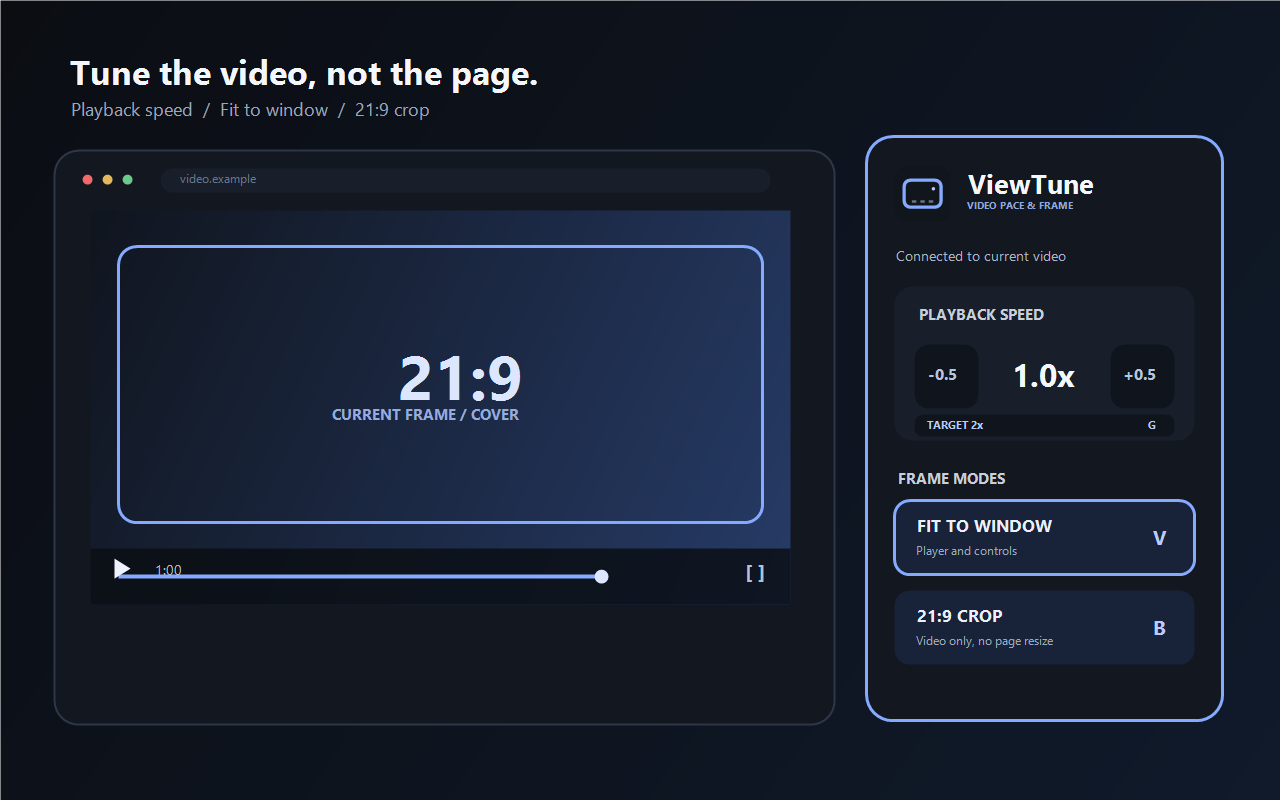
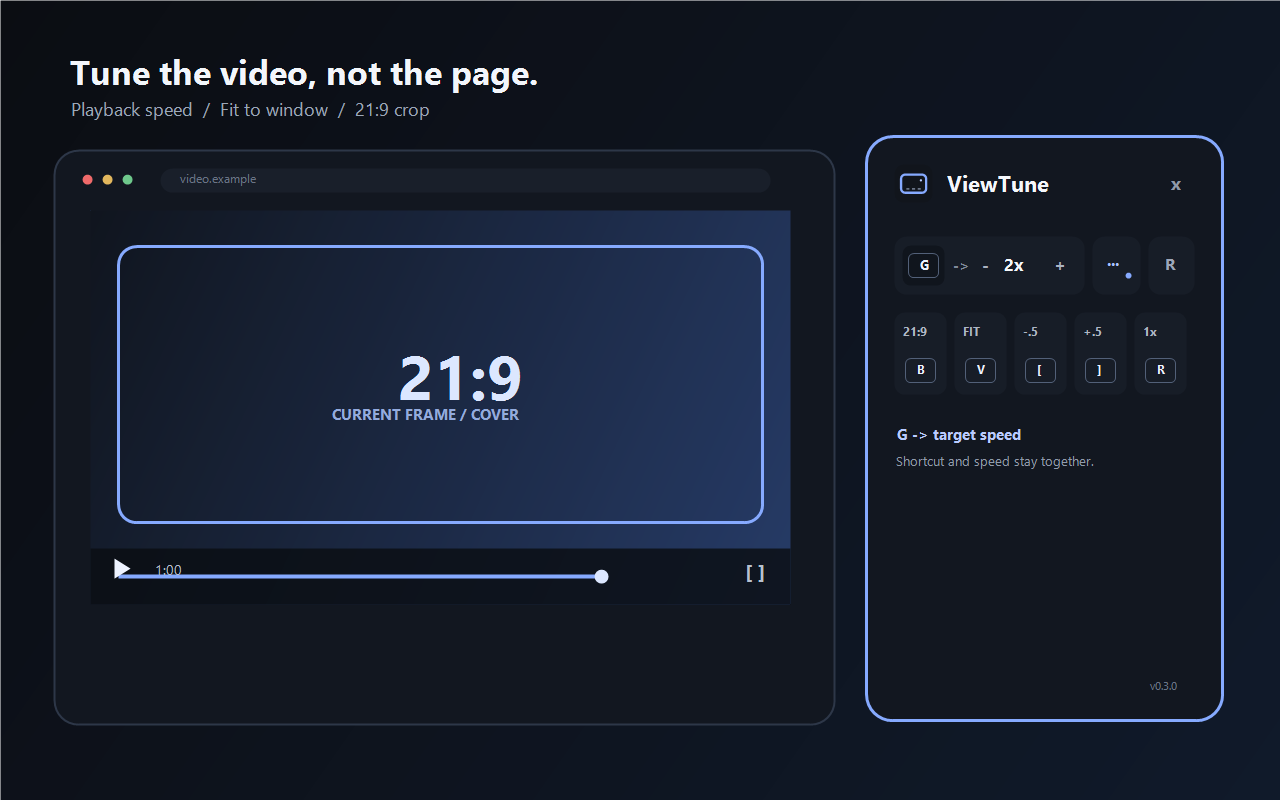
Handle invalidated extension contexts

diff --git a/src/content/main.js b/src/content/main.js
@@ -11,31 +11,42 @@
   const controller = capability.supported
     ? new globalThis.ViewTune.VideoController()
     : null;
+  let shortcuts = null;
+  let contextActive = true;
+  let runtimeMessageListener = null;
   markRuntimeBuild();
+
   const markFrameActive = () => {
-    chrome.runtime.sendMessage({ type: "viewtune/activate-frame" }).catch(() => {
-      // 서비스 워커가 다시 시작되는 짧은 순간에도 영상 제어는 독립적으로 동작한다.
-    });
+    if (!contextActive) {
+      return;
+    }
+    try {
+      const pending = chrome.runtime.sendMessage({ type: "viewtune/activate-frame" });
+      pending?.catch?.((error) => {
+        if (isExtensionContextInvalidated(error)) {
+          deactivateContext();
+        }
+      });
+    } catch {
+      deactivateContext();
+    }
+  };
+  const handlePointerDown = (event) => {
+    if (controller.videoFromElement(event.target)) {
+      markFrameActive();
+    }
+  };
+  const handlePlay = (event) => {
+    if (controller.isUsableVideo(event.target)) {
+      markFrameActive();
+    }
   };
 
   if (controller) {
-    const shortcuts = new globalThis.ViewTune.ShortcutController(controller, markFrameActive);
-    shortcuts.start();
-
-    document.addEventListener("pointerdown", (event) => {
-      if (controller.videoFromElement(event.target)) {
-        markFrameActive();
-      }
-    }, true);
-
-    document.addEventListener("play", (event) => {
-      if (controller.isUsableVideo(event.target)) {
-        markFrameActive();
-      }
-    }, true);
+    activateController();
   }
 
-  chrome.runtime.onMessage.addListener((message, _sender, sendResponse) => {
+  runtimeMessageListener = (message, _sender, sendResponse) => {
     if (message?.type === "viewtune/execute") {
       const result = controller
         ? controller.execute(message.action)
@@ -53,7 +64,46 @@
         : unsupportedPageResult(capability);
       sendResponse(withPageContext(result));
     }
-  });
+  };
+  try {
+    chrome.runtime.onMessage.addListener(runtimeMessageListener);
+  } catch {
+    deactivateContext();
+  }
+
+  function activateController() {
+    shortcuts = new globalThis.ViewTune.ShortcutController(controller, markFrameActive);
+    try {
+      shortcuts.start();
+      document.addEventListener("pointerdown", handlePointerDown, true);
+      document.addEventListener("play", handlePlay, true);
+    } catch {
+      deactivateContext();
+    }
+  }
+
+  function deactivateContext() {
+    if (!contextActive) {
+      return;
+    }
+    contextActive = false;
+    shortcuts?.stop?.();
+    if (controller) {
+      document.removeEventListener("pointerdown", handlePointerDown, true);
+      document.removeEventListener("play", handlePlay, true);
+    }
+    try {
+      if (runtimeMessageListener) {
+        chrome.runtime.onMessage.removeListener(runtimeMessageListener);
+      }
+    } catch {
+      // 무효화된 컨텍스트에서는 Chrome 이벤트 자체에 접근할 수 없다.
+    }
+  }
+
+  function isExtensionContextInvalidated(error) {
+    return /extension context invalidated/i.test(String(error?.message || error || ""));
+  }
 
   function withPageContext(result) {
     return {

diff --git a/tests/shortcut-utils.test.js b/tests/shortcut-utils.test.js
@@ -416,6 +416,56 @@ test("Shadow DOM 경로 안의 편집기에서도 단축키를 무시한다", ()
   }), true);
 });
 
+test("ShortcutController stop은 키와 storage 리스너를 함께 해제한다", () => {
+  const previousChrome = globalThis.chrome;
+  const documentListeners = new Map();
+  let storageListener = null;
+  let removedStorageListener = null;
+  globalThis.chrome = {
+    storage: {
+      sync: {
+        async get() { return {}; },
+        async set() {}
+      },
+      onChanged: {
+        addListener(listener) { storageListener = listener; },
+        removeListener(listener) { removedStorageListener = listener; }
+      }
+    }
+  };
+
+  try {
+    const document = {
+      addEventListener(type, listener) { documentListeners.set(type, listener); },
+      removeEventListener(type, listener) {
+        if (documentListeners.get(type) === listener) {
+          documentListeners.delete(type);
+        }
+      }
+    };
+    const controller = new ShortcutController({
+      document,
+      window: {},
+      setFeedbackEnabled() {},
+      setTargetPlaybackRate() {}
+    }, () => {});
+
+    controller.start();
+    assert.equal(documentListeners.get("keydown"), controller.handleKeydown);
+    assert.equal(storageListener, controller.handleStorageChange);
+
+    controller.stop();
+    assert.equal(documentListeners.has("keydown"), false);
+    assert.equal(removedStorageListener, controller.handleStorageChange);
+  } finally {
+    if (previousChrome === undefined) {
+      delete globalThis.chrome;
+    } else {
+      globalThis.chrome = previousChrome;
+    }
+  }
+});
+
 test("설정된 화면 단축키는 적용 실패 시에도 YouTube로 새지 않는다", () => {
   let frameActivityCount = 0;
   let executedAction = null;

diff --git a/src/content/shortcut-controller.js b/src/content/shortcut-controller.js
@@ -27,6 +27,15 @@
       this.loadSettings();
     }
 
+    stop() {
+      this.document.removeEventListener("keydown", this.handleKeydown, true);
+      try {
+        chrome.storage.onChanged.removeListener(this.handleStorageChange);
+      } catch {
+        // 확장 새로고침으로 컨텍스트가 무효화된 뒤에는 storage 이벤트 접근도 실패할 수 있다.
+      }
+    }
+
     get document() {
       return this.videoController.document;
     }

diff --git a/src/shared/constants.js b/src/shared/constants.js
@@ -63,7 +63,7 @@
 
   const STORAGE_KEY = "viewTuneSettings";
 
-  const BUILD_ID = "0.3.0-20260717-target-mapping-v3";
+  const BUILD_ID = "0.3.0-20260717-runtime-lifecycle-v4";
   const MIN_PLAYBACK_RATE = 0.5;
   const MAX_PLAYBACK_RATE = 4;
   const DEFAULT_TARGET_PLAYBACK_RATE = 2;

diff --git a/docs/reference/runbooks/chrome-web-store-release.md b/docs/reference/runbooks/chrome-web-store-release.md
@@ -11,6 +11,7 @@
 - `src/shared/constants.js`의 `BUILD_ID`가 새 버전으로 시작해야 한다.
 - 작업트리의 변경 범위가 의도한 릴리스와 일치해야 한다.
 - 스토어 설명·권한·개인정보 처리 내용이 실제 동작과 일치해야 한다.
+- 스토어 스크린샷은 현재 팝업과 기능을 정확히 보여줘야 한다.
 
 ## 릴리스 후보 만들기
 
@@ -29,21 +30,23 @@
    npm run check
    ```
 
-4. [사이트 호환성 회귀 검사](compatibility-regression.md)를 완료한다.
-5. 업로드 ZIP을 생성한다.
+4. [로컬 확장 개발 주기](local-extension-cycle.md)에 따라 확장과 테스트할 비디오 탭을 모두 새로고침한다. `chrome://extensions`의 오류 기록을 지운 뒤 실제 조작으로 새 오류가 생기지 않는지 확인한다. 이전 content script의 `Extension context invalidated` 기록은 새로고침 전에 남은 과거 기록인지 구분한다.
+5. [사이트 호환성 회귀 검사](compatibility-regression.md)를 완료한다.
+6. `release/store-assets/`의 스크린샷과 프로모션 이미지가 현재 UI와 일치하는지 확인한다. 필요하면 `scripts/generate-store-assets.ps1`로 다시 생성한다.
+7. 업로드 ZIP을 생성한다.
 
    ```powershell
    npm run package
    ```
 
-6. `release/packages/viewtune-<version>.zip`이 생성됐는지 확인한다. 패키징 스크립트는 ZIP 최상위의 `manifest.json`, 한·영 locale, 개발 전용 파일 제외 여부를 검증한다.
-7. 재현 가능한 인계를 위해 ZIP의 SHA-256과 크기를 기록한다.
+8. `release/packages/viewtune-<version>.zip`이 생성됐는지 확인한다. 패키징 스크립트는 ZIP 최상위의 `manifest.json`, 한·영 locale, 개발 전용 파일 제외 여부를 검증한다.
+9. 재현 가능한 인계를 위해 ZIP의 SHA-256과 크기를 기록한다.
 
    ```powershell
    Get-FileHash release/packages/viewtune-<version>.zip -Algorithm SHA256
    ```
 
-8. 소스 변경을 커밋하고 공개 GitHub 저장소의 기본 브랜치에 푸시한다. ZIP 자체는 저장소에 커밋하지 않는다.
+10. 소스 변경을 커밋하고 공개 GitHub 저장소의 기본 브랜치에 푸시한다. ZIP 자체는 저장소에 커밋하지 않는다.
 
 ## Developer Dashboard 제출
 

diff --git a/docs/reference/runbooks/local-extension-cycle.md b/docs/reference/runbooks/local-extension-cycle.md
@@ -42,6 +42,6 @@
 ## 복구와 중단 조건
 
 - 팝업이 **탭 새로고침**을 요구하면 먼저 해당 탭을 새로고침한다. 계속되면 확장 카드의 설치 위치와 중복 카드를 확인한다.
+- `Extension context invalidated` 오류가 남아 있으면 확장 오류 화면에서 기존 기록을 지운 뒤 ViewTune과 해당 비디오 탭을 차례로 새로고침한다. 이전 content script는 무효화 감지 후 자체 리스너를 해제하지만, 새 코드는 호스트 페이지를 새로고침해야 주입된다.
 - `npm run check`가 실패하면 Chrome 수동 검사나 패키징으로 넘어가지 않는다.
 - 검은 영상, 복원되지 않는 레이아웃, 사이트 단축키 침범이 발생하면 해당 상태와 재현 순서를 기록하고 [사이트 호환성 회귀 검사](compatibility-regression.md)에서 실패 범위를 좁힌다.
-